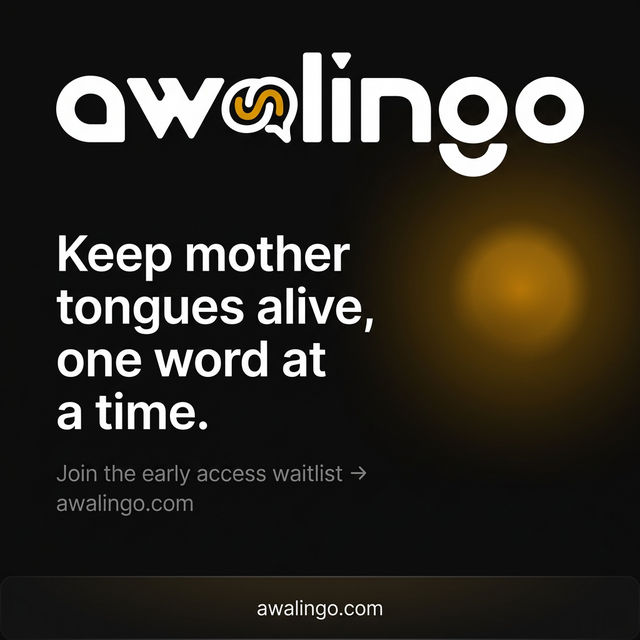
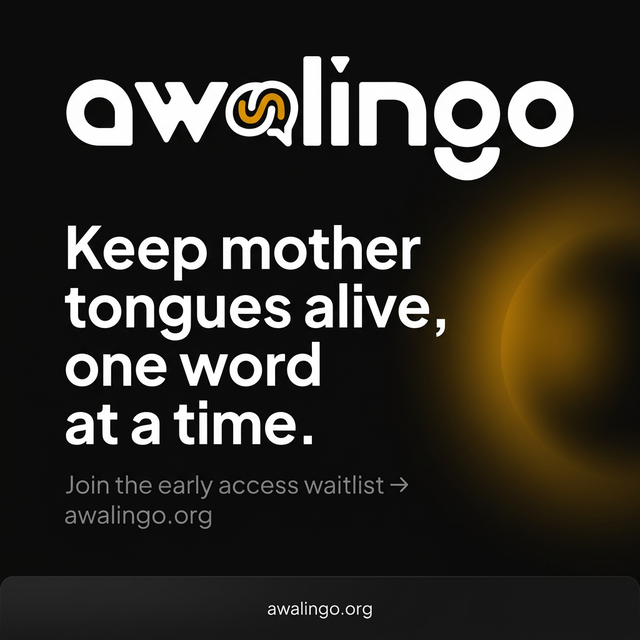
replace og

Changed region(s): [[0.0625, 0.0625, 1.0, 0.8438], [0.4062, 0.9375, 0.5938, 0.9688], [0.9375, 0.3125, 1.0, 0.375]]

diff --git a/src/app/layout.tsx b/src/app/layout.tsx
@@ -68,7 +68,7 @@ const metropolis = localFont({
   display: 'swap',
 });
 
-const SITE_URL = process.env.NEXT_PUBLIC_SITE_URL ?? 'https://awalingo.com';
+const SITE_URL = process.env.NEXT_PUBLIC_SITE_URL ?? 'https://awalingo.org';
 
 export const metadata: Metadata = {
   title: 'Awalingo — Join the Waitlist',
